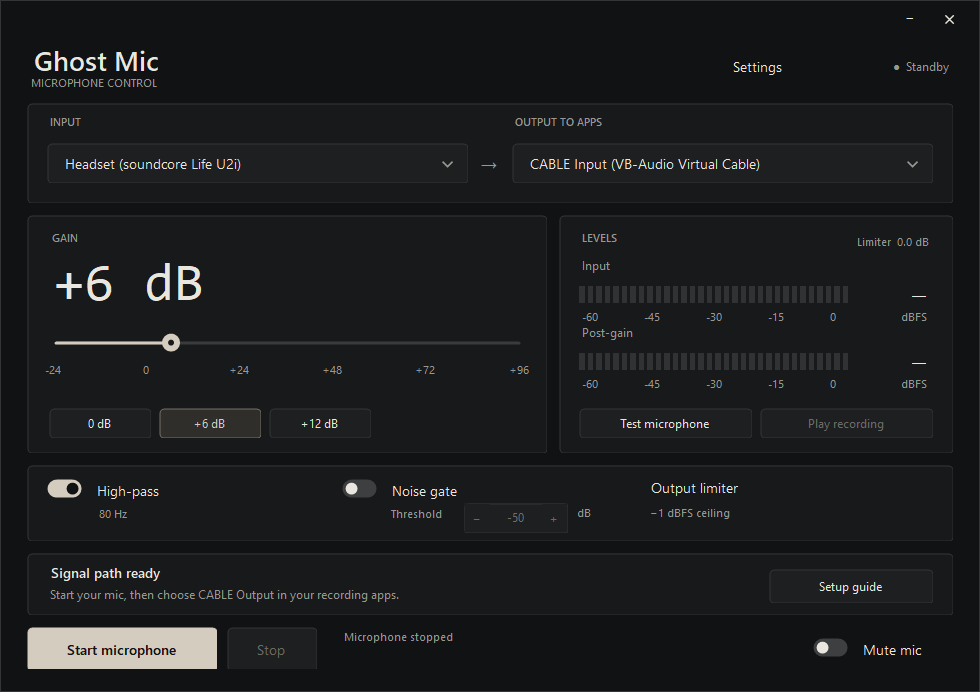
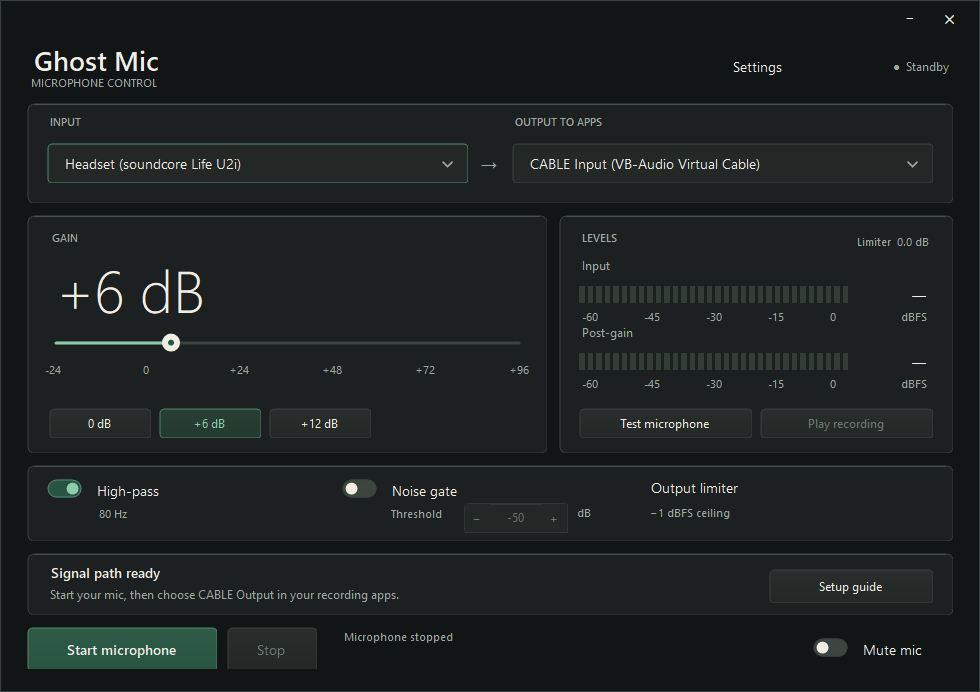
Restore restrained green accents and soften the interface finish

diff --git a/Theme.cs b/Theme.cs
@@ -5,10 +5,13 @@ namespace GhostMic;
 
 internal static class Theme
 {
-    public static readonly Color Background = Color.FromArgb(17, 18, 19), Panel = Color.FromArgb(24, 25, 26),
-        Field = Color.FromArgb(30, 31, 32), Border = Color.FromArgb(52, 53, 54),
-        Text = Color.FromArgb(233, 230, 224), Muted = Color.FromArgb(152, 151, 147),
-        Accent = Color.FromArgb(211, 204, 191), Warning = Color.FromArgb(210, 175, 123);
+    public static readonly Color Background = Color.FromArgb(18, 21, 21), Panel = Color.FromArgb(28, 32, 32),
+        Field = Color.FromArgb(35, 40, 39), Border = Color.FromArgb(57, 66, 62),
+        Text = Color.FromArgb(240, 237, 229), Muted = Color.FromArgb(158, 170, 161),
+        Accent = Color.FromArgb(142, 202, 172), Warning = Color.FromArgb(210, 175, 123),
+        Primary = Color.FromArgb(40, 85, 66), PrimaryHover = Color.FromArgb(48, 101, 78),
+        AccentEdge = Color.FromArgb(85, 132, 109), Selection = Color.FromArgb(35, 57, 46),
+        Highlight = Color.FromArgb(72, 80, 77);
     public static GraphicsPath Round(RectangleF rect, float radius = 10)
     {
         var path = new GraphicsPath(); float d = radius * 2;
@@ -18,6 +21,13 @@ internal static class Theme
     }
     public static void Fill(Graphics g, Color color, RectangleF rect, float radius = 10)
     { using var path = Round(rect, radius); using var brush = new SolidBrush(color); g.FillPath(brush, path); }
+    public static void Satin(Graphics g, Color color, RectangleF rect, float radius = 4)
+    {
+        using var path = Round(rect, radius);
+        var top = Color.FromArgb(Math.Min(255, color.R+6), Math.Min(255, color.G+6), Math.Min(255, color.B+6));
+        using var brush = new LinearGradientBrush(rect, top, color, LinearGradientMode.Vertical);
+        g.FillPath(brush, path);
+    }
     public static void Outline(Graphics g, Color color, RectangleF rect, float radius = 10)
     { using var path = Round(rect, radius); using var pen = new Pen(color); g.DrawPath(pen, path); }
     public static void TextAt(Graphics g, string text, Font font, Color color, Rectangle rect, TextFormatFlags extra = TextFormatFlags.Left)
@@ -28,7 +38,13 @@ public class Card : Panel
 {
     public Card() { DoubleBuffered = true; BackColor = Theme.Background; Padding = new Padding(22); }
     protected override void OnPaintBackground(PaintEventArgs e)
-    { e.Graphics.Clear(BackColor); e.Graphics.SmoothingMode = SmoothingMode.AntiAlias; Theme.Fill(e.Graphics, Theme.Panel, new RectangleF(0, 0, Width-1, Height-1), 4); Theme.Outline(e.Graphics, Theme.Border, new RectangleF(0.5f, .5f, Width-1, Height-1), 4); }
+    {
+        e.Graphics.Clear(BackColor); e.Graphics.SmoothingMode = SmoothingMode.AntiAlias;
+        Theme.Fill(e.Graphics, Theme.Panel, new RectangleF(0, 0, Width-1, Height-1), 6);
+        Theme.Outline(e.Graphics, Theme.Border, new RectangleF(.5f, .5f, Width-1, Height-1), 6);
+        using var highlight = new Pen(Theme.Highlight);
+        e.Graphics.DrawLine(highlight, 7, 1, Width-8, 1);
+    }
 }
 
 public class GhostButton : Button
@@ -51,11 +67,12 @@ public class GhostButton : Button
     protected override void OnPaint(PaintEventArgs e)
     {
         var g = e.Graphics; g.Clear(BackColor); g.SmoothingMode = SmoothingMode.AntiAlias;
-        Color fill = Primary && Enabled ? Theme.Accent : Selected ? Color.FromArgb(48, 46, 42) : hover && Enabled ? Color.FromArgb(43, 44, 45) : Theme.Field;
+        Color fill = Primary && Enabled ? hover ? Theme.PrimaryHover : Theme.Primary : Selected ? Theme.Selection : hover && Enabled ? Color.FromArgb(43, 54, 47) : Theme.Field;
         if (Quiet && !hover) fill = BackColor;
-        Theme.Fill(g, fill, new RectangleF(.5f, .5f, Width-1, Height-1), 4);
-        if (!Quiet) Theme.Outline(g, Selected ? Color.FromArgb(119, 113, 102) : Primary && Enabled ? Theme.Accent : Theme.Border, new RectangleF(.5f, .5f, Width-1, Height-1), 4);
-        Theme.TextAt(g, Text, Font, !Enabled ? Color.FromArgb(106, 106, 104) : Primary ? Theme.Background : Selected ? Theme.Accent : Theme.Text,
+        if (Quiet && !hover) Theme.Fill(g, fill, new RectangleF(.5f, .5f, Width-1, Height-1), 4);
+        else Theme.Satin(g, fill, new RectangleF(.5f, .5f, Width-1, Height-1));
+        if (!Quiet) Theme.Outline(g, Selected || Primary && Enabled ? Theme.AccentEdge : Theme.Border, new RectangleF(.5f, .5f, Width-1, Height-1), 4);
+        Theme.TextAt(g, Text, Font, !Enabled ? Color.FromArgb(110, 122, 113) : Selected ? Theme.Accent : Theme.Text,
             ClientRectangle, TextFormatFlags.HorizontalCenter);
         if (Focused && ShowFocusCues) Theme.Outline(g, Theme.Muted, new RectangleF(3.5f, 3.5f, Width-7, Height-7), 2);
     }
@@ -111,7 +128,7 @@ public class DeviceSelector : Button
     {
         var g = e.Graphics; g.Clear(BackColor); g.SmoothingMode = SmoothingMode.AntiAlias;
         Theme.Fill(g, Theme.Field, new RectangleF(.5f, .5f, Width-1, Height-1), 4);
-        Theme.Outline(g, Focused ? Color.FromArgb(124, 119, 109) : Theme.Border, new RectangleF(.5f, .5f, Width-1, Height-1), 4);
+        Theme.Outline(g, Focused ? Theme.AccentEdge : Theme.Border, new RectangleF(.5f, .5f, Width-1, Height-1), 4);
         Theme.TextAt(g, SelectedItem?.Name ?? Placeholder, Font, !Enabled || SelectedItem == null ? Theme.Muted : Theme.Text, new Rectangle(14, 0, Width-48, Height));
         using var pen = new Pen(Theme.Muted, 1.6f);
         g.DrawLines(pen, [new Point(Width-26, Height/2-2), new Point(Width-21, Height/2+3), new Point(Width-16, Height/2-2)]);
@@ -136,8 +153,9 @@ public class GhostToggle : CheckBox
     {
         var g = e.Graphics; g.Clear(BackColor); g.SmoothingMode = SmoothingMode.AntiAlias;
         int y = (Height-22)/2;
-        Theme.Fill(g, Checked ? Theme.Accent : Color.FromArgb(62, 63, 64), new RectangleF(0, y, 34, 18), 9);
-        using var brush = new SolidBrush(Checked ? Theme.Background : Theme.Text);
+        Theme.Fill(g, Checked ? Theme.Primary : Color.FromArgb(60, 69, 63), new RectangleF(0, y, 34, 18), 9);
+        Theme.Outline(g, Checked ? Theme.AccentEdge : Theme.Border, new RectangleF(.5f, y+.5f, 33, 17), 8.5f);
+        using var brush = new SolidBrush(Checked ? Theme.Accent : Theme.Text);
         g.FillEllipse(brush, Checked ? 19 : 3, y+3, 12, 12);
         Theme.TextAt(g, Text, Font, Enabled ? Theme.Text : Theme.Muted, new Rectangle(46, 0, Width-46, Height));
         if (Focused && ShowFocusCues) Theme.Outline(g, Theme.Muted, new RectangleF(.5f, .5f, Width-1, Height-1), 3);
@@ -162,10 +180,10 @@ public class GainSlider : Control
     {
         var g = e.Graphics; g.Clear(BackColor); g.SmoothingMode = SmoothingMode.AntiAlias;
         int left = 12, width = Width-24; float x = left + width * (Value-Minimum)/(float)(Maximum-Minimum);
-        Theme.Fill(g, Color.FromArgb(58, 59, 60), new RectangleF(left, 17, width, 3), 1.5f);
+        Theme.Fill(g, Color.FromArgb(57, 68, 61), new RectangleF(left, 17, width, 3), 1.5f);
         if (x > left) Theme.Fill(g, Theme.Accent, new RectangleF(left, 17, Math.Max(3, x-left), 3), 1.5f);
-        using var accent = new SolidBrush(Theme.Accent); g.FillEllipse(accent, x-9, 9, 18, 18);
-        using var center = new SolidBrush(Theme.Panel); g.FillEllipse(center, x-3, 15, 6, 6);
+        using var accent = new SolidBrush(Theme.Text); g.FillEllipse(accent, x-9, 9, 18, 18);
+        using var center = new SolidBrush(Theme.Primary); g.FillEllipse(center, x-3, 15, 6, 6);
         using var labelFont = new Font("Segoe UI", 8);
         foreach (int tick in new[] { -24, 0, 24, 48, 72, 96 })
         {
@@ -202,7 +220,7 @@ public sealed class LevelMeter : Control
         for (int i = 0; i < segments; i++)
         {
             bool lit = i/(float)segments < Math.Clamp((db+60)/60, 0, 1);
-            Color color = !lit ? Color.FromArgb(49, 50, 51) : i > 29 ? Color.FromArgb(198, 115, 105) : i > 25 ? Theme.Warning : Theme.Accent;
+            Color color = !lit ? Color.FromArgb(50, 62, 54) : i > 29 ? Color.FromArgb(198, 115, 105) : i > 25 ? Theme.Warning : Theme.Accent;
             using var brush = new SolidBrush(color); g.FillRectangle(brush, i*segment, 6, Math.Max(1, segment-3), 17);
         }
         using var small = new Font("Segoe UI", 8);

diff --git a/MainWindow.Layout.cs b/MainWindow.Layout.cs
@@ -66,7 +66,7 @@ public sealed partial class MainWindow
         main.ColumnStyles.Add(new ColumnStyle(SizeType.Percent, 57)); main.ColumnStyles.Add(new ColumnStyle(SizeType.Absolute, 12)); main.ColumnStyles.Add(new ColumnStyle(SizeType.Percent, 43));
         var gainCard = new Card { Dock = DockStyle.Fill, Margin = Padding.Empty };
         var gainCaption = LabelAt("GAIN", 8, Theme.Muted, true); gainCaption.SetBounds(22, 16, 240, 20);
-        gainReadout.Font = new Font("Consolas", 40); gainReadout.ForeColor = Theme.Text; gainReadout.BackColor = Theme.Panel;
+        gainReadout.Font = new Font("Segoe UI Light", 44); gainReadout.ForeColor = Theme.Text; gainReadout.BackColor = Theme.Panel;
         gainReadout.SetBounds(16, 35, 340, 76);
         gain.BackColor = Theme.Panel;
         gainCard.Controls.AddRange([gainCaption, gainReadout, gain]);
@@ -167,7 +167,7 @@ public sealed partial class MainWindow
         bool active = engine.Running;
         string label = !active ? "●  Standby" : mute.Checked ? "●  Muted" : testing ? "●  Testing" : "●  Live";
         if (sessionBadge.Text != label) sessionBadge.Text = label;
-        sessionBadge.ForeColor = active && !mute.Checked ? Color.FromArgb(153, 174, 156) : Theme.Muted;
+        sessionBadge.ForeColor = active && !mute.Checked ? Theme.Accent : Theme.Muted;
         noticeTitle.Text = active ? testing ? "Microphone test" : mute.Checked ? "Microphone muted" : "Signal path active" : output.Items.Count == 0 ? "Virtual device required" : "Signal path ready";
         noticeAction.Text = output.Items.Count == 0 ? "Install virtual device" : "Setup guide";
         hints.SetToolTip(reduction, engine.InputClipped ? "The physical mic is clipping. Lower its Windows input level." : $"Limiter gain reduction: {engine.ReductionDb:0.0} dB. Output buffer recoveries: {engine.BufferResets}. {engine.FormatDescription}");

diff --git a/PrecisionControls.cs b/PrecisionControls.cs
@@ -26,7 +26,7 @@ public sealed class GhostMenu : ContextMenuStrip
         protected override void OnRenderMenuItemBackground(ToolStripItemRenderEventArgs e)
         {
             if (!e.Item.Selected || !e.Item.Enabled) return;
-            using var brush = new SolidBrush(Color.FromArgb(45, 46, 47));
+            using var brush = new SolidBrush(Theme.Selection);
             e.Graphics.FillRectangle(brush, new Rectangle(0, 0, e.Item.Width, e.Item.Height));
         }
         protected override void OnRenderItemText(ToolStripItemTextRenderEventArgs e) =>
